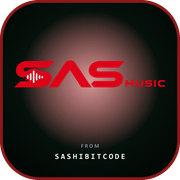
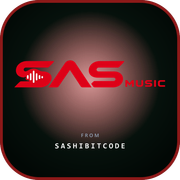
feat(splash): set hold duration to 2.5s and elevate 'from SASHIBITCODE' higher up for balanced mobile layout

Changed region(s): [[0.3056, 0.7222, 0.6944, 0.8889]]

diff --git a/index.html b/index.html
@@ -197,7 +197,7 @@
     <!-- React Application Mount Point -->
     <div id="root"></div>
 
-    <!-- Independent Full-Screen Native Splash Screen (2.0s Hold + Loading Bar + 500ms Smooth Dissolve) -->
+    <!-- Independent Full-Screen Native Splash Screen (2.5s Hold + Loading Bar + 500ms Smooth Dissolve) -->
     <style>
       @keyframes splashLoading {
         0% { width: 0%; opacity: 0.6; }
@@ -216,12 +216,12 @@
         
         <!-- Luxury Animated Loading Bar -->
         <div style="width:130px;height:3px;background:rgba(255,255,255,0.08);border-radius:9999px;overflow:hidden;position:relative;margin-top:24px;">
-          <div style="height:100%;background:linear-gradient(90deg,#A31C1B,#e2403f,#ffffff);border-radius:9999px;animation:splashLoading 2s cubic-bezier(0.2,0.8,0.2,1) forwards;box-shadow:0 0 10px rgba(163,28,27,0.85);"></div>
+          <div style="height:100%;background:linear-gradient(90deg,#A31C1B,#e2403f,#ffffff);border-radius:9999px;animation:splashLoading 2.5s cubic-bezier(0.2,0.8,0.2,1) forwards;box-shadow:0 0 10px rgba(163,28,27,0.85);"></div>
         </div>
       </div>
 
-      <!-- Bottom Studio Brand Signature -->
-      <div style="display:flex;flex-direction:column;align-items:center;gap:3px;text-align:center;">
+      <!-- Bottom Studio Brand Signature (Elevated by 38px for comfortable optical balance) -->
+      <div style="display:flex;flex-direction:column;align-items:center;gap:4px;text-align:center;margin-bottom:38px;">
         <span style="font-size:10px;text-transform:uppercase;letter-spacing:0.25em;color:#94a3b8;font-weight:600;font-family:-apple-system,BlinkMacSystemFont,'Segoe UI',Roboto,sans-serif;">from</span>
         <span style="font-size:13px;font-weight:800;letter-spacing:0.22em;color:#ffffff;font-family:ui-monospace,SFMono-Regular,Menlo,Monaco,Consolas,monospace;">SASHIBITCODE</span>
       </div>
@@ -249,8 +249,8 @@
         splash.addEventListener('click', dismiss);
         splash.addEventListener('touchstart', dismiss, { passive: true });
 
-        // Guaranteed hold time of 2.0 seconds so users comfortably read the brand & see loading
-        setTimeout(dismiss, 2000);
+        // Guaranteed hold time of 2.5 seconds so users comfortably read the brand & see loading
+        setTimeout(dismiss, 2500);
       })();
     </script>
     <script type="module" src="/src/main.jsx"></script>
